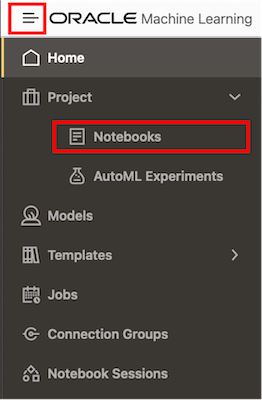
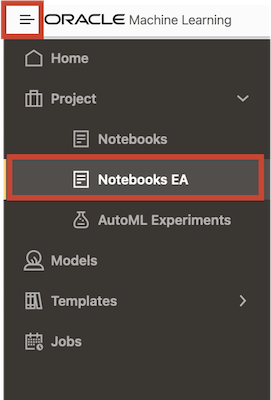
Updates to Speakers

diff --git a/oml4py-adb/embd-python-rest/embd-python-rest.md b/oml4py-adb/embd-python-rest/embd-python-rest.md
@@ -34,37 +34,65 @@ In this lab, we provide a workflow for using the OML4Py REST API for embedded Py
 
 We need to view the markdown in the OML notebook for this lab, and access the OCI Cloud Shell to run the associated cURL commands.
 
-**Access the Lab Notebooks**
+**Access and run the OML notebook for this lab.**
 
-1. Go back to the main notebooks listing by clicking on the "hamburger" menu (the three lines) on the upper left of the screen, and then select **Notebooks**.
+ > **NOTE:** If you have problems with downloading and extracting the ZIP file in Lab 1 Task 2, please 
+ <if type="freetier">[**CLICK HERE** to download the "Lab 7 - Run UDFs with REST API for EPE" noteook DSNB file](<./../notebooks/Lab 7 - Run UDFs with REST API for EPE.dsnb?download=1>)</if><if type="livelabs">[**CLICK HERE** to download the "Lab 7 - Run UDFs with REST API for EPE" noteook DSNB file](<./../notebooks/Lab 7 - Run UDFs with REST API for EPE.dsnb?download=1>)</if><if type="freetier-ocw23">[**CLICK HERE** to download the "Lab Bonus 3 - Run UDFs with REST API for EPE" noteook DSNB file](<./../notebooks/Lab Bonus 3 - Run UDFs with REST API for EPE.dsnb?download=1>)</if>
+   <if type="livelabs-ocw23">[**CLICK HERE** to download the "Lab Bonus 3 - Run UDFs with REST API for EPE" noteook DSNB file](<./../notebooks/Lab Bonus 3 - Run UDFs with REST API for EPE.dsnb?download=1>)</if>. This notebook contains the scripts for this Lab. Save it to your local machine and import it like illustrated in **Lab 1, Task 2, Step 1**.
 
- ![Oracle Machine Learning Notebooks menu](images/go-back-to-notebooks.png "Oracle Machine Learning Notebooks menu ")
-
-2. Click the **Lab 7 notebook name** to view it.
+   Go back to the main Notebooks listing by clicking on the "hamburger" menu (the three lines) on the upper left of the screen, and then select **Notebooks EA**. 
+   
+   ![Go to main Notebooks EA](images/go-back-to-notebooks.png " ")
+   
    <if type="freetier">
-   ![Open Lab 7 notebook ft](images/click-on-lab5-ft.png "Lab 6 notebook") </if>
+   Click the **Lab 7** notebook to view it.
+
+   ![Open Lab 7 notebook ft](images/click-on-la7-ft.png " ") </if>
+   
    <if type="livelabs">
-   ![Open Lab 7 notebook ll](images/click-on-lab5-ll.png "Lab 6 notebook") </if>
+   Click the **Lab 7** notebook to view it.
 
-  OML Notebooks will create a session and make the notebook available for editing.
+   ![Open Lab 7 notebook ll](images/click-on-lab7-ll.png " ") </if>
+   
+   <if type="freetier-ocw23">
+   Click the **Lab Bonus 3** notebook to view it.
 
-  You can optionally click the **Run all paragraphs** (![](images/run-all-paragraphs.png =20x*)) icon, and then click **OK** to confirm to refresh the content with your data, or just scroll down and read the pre-recorded results.  
+   ![Open Lab Bonus 3 notebook ft](images/click-on-labbo3-ft-ocw23.png " ") </if>
+   
+   <if type="livelabs-ocw23">
+   Click the **Lab Bonus 3** notebook to view it.
+   
+   ![Open Lab Bonus 3 notebook ll](images/click-on-labbo3-ll-ocw23.png " ") </if>
 
-  ![Lab 7 Introduction notebook screen capture](images/lab5-main.png " Introduction notebook")
+   OML Notebooks will create a session and make the notebook available for editing.
 
-> **NOTE:** If you had problems downloading and extracting the ZIP file for the labs, please [**CLICK HERE** to download the lab7\_embed\_python\_rest.json notebook file](./../notebooks/lab7_embed_python_rest.json?download=1). Download the notebook file for this lab to your local machine and then import it like illustrated in **Lab 1, Task 2**.
+   You can optionally click the **Run all paragraphs** (![](images/run-all-paragraphs.png =20x*)) icon, and then click **Confirm** to refresh the content with your data, or just scroll down and read the pre-recorded results.  
 
-**Access the OCI Cloud Shell to run cURL commands:**
+   <if type="freetier">
+   ![Lab 7 main screen](images/lab7-main.png " ")
+   </if>
+   <if type="livelabs">
+   ![Lab 7 main screen](images/lab7-main.png " ")
+   </if>
+   <if type="freetier-ocw23">
+   ![Lab Bonus 3 main screen](images/labbo3-main.png " ")
+   </if>
+   <if type="livelabs-ocw23">
+   ![Lab Bonus 3 main screen](images/labbo3-main.png " ")
+   </if>
+
+
+**Access the OCI Cloud Shell to run cURL commands**
 
 To access the OCI Cloud Shell to run the associated cURL commands:
 
-1. To run cURL commands, click the Developer Tools icon on your OCI console and then click Cloud Shell.  
+1. Click the Developer Tools icon on your OCI console and then click Cloud Shell.  
 
-  ![Lab 7 Task 5 cloud shell icon under Developer tools](images/devtools-cloud-shell.png " ")
+  ![Cloud shell icon under Developer tools](images/devtools-cloud-shell.png " ")
 
-2. The Oracle Cloud Shell interface opens at the bottom of your OCI console page. Here, you can run your cURL commands.
+2. The Oracle Cloud Shell interface opens at the bottom of your OCI console page. Here, you can run your cURL commands.  At the right in the green bar that opens up you also have options to maximize, minimize or close the Cloud Shell window.
 
-  ![Lab 7 Task 5 Cloud shell pane](images/cloud-shell-pane.png " ")
+  ![Cloud shell pane](images/cloud-shell-pane.png " ")
 
 ## Task 1: Obtain an Access Token
 
@@ -74,7 +102,20 @@ To access the OCI Cloud Shell to run the associated cURL commands:
 
   ![Obtain the access token](images/1-obtain-access-token.png " ")
 
-2. Follow the flow of the notebook by scrolling to view and run each paragraph of this lab.
+  ![Obtain the access token 2](images/1-obtain-access-token-2.png " ")
+
+  Use the following code in OCI Cloud Shell, replacing `yourusername`, `yourpassword` and `OML Service URL` with the ones for your service.
+
+  ``` 
+  <copy>
+
+    curl -X POST --header 'Content-Type:application/json' \
+    --header 'Accept:application/json' \
+    -d '{"grant_type":"password", "username":"'yourusername'","password":"'yourpassword'"}' 
+    "OML service URL/omlusers/api/oauth2/v1/token"
+  ```
+
+1. Follow the flow of the notebook by scrolling to view and run each paragraph of this lab.
 
   Scroll down to the beginning of Task 1.1.
   ![Export OML Cloud Service URL](images/1-1-export-oml-url-env-variable.png " ")

diff --git a/oml4py-adb/embd-python-sql/embd-python-sql.md b/oml4py-adb/embd-python-sql/embd-python-sql.md
@@ -55,14 +55,14 @@ As the OML user:
    ![Open Lab 5 notebook ll](images/click-on-lab6-ll.png " ") </if>
    
    <if type="freetier-ocw23">
-   Click the **Lab Bonus 1** notebook to view it.
+   Click the **Lab Bonus 2** notebook to view it.
 
-   ![Open Lab 5 notebook ft](images/click-on-labbo2-ft-ocw23.png " ") </if>
+   ![Open Lab Bonus 2 notebook ft](images/click-on-labbo2-ft-ocw23.png " ") </if>
    
    <if type="livelabs-ocw23">
-   Click the **Lab Bonus 1** notebook to view it.
+   Click the **Lab Bonus 2** notebook to view it.
    
-   ![Open Lab 5 notebook ll](images/click-on-labbo2-ll-ocw23.png " ") </if>
+   ![Open Lab Bonus 2 notebook ll](images/click-on-labbo2-ll-ocw23.png " ") </if>
 
    OML Notebooks will create a session and make the notebook available for editing.
 

diff --git a/oml4py-adb/embd-python/embd-python.md b/oml4py-adb/embd-python/embd-python.md
@@ -53,12 +53,12 @@ In this lab, you will:
    <if type="freetier-ocw23">
    Click the **Lab Bonus 1** notebook to view it.
 
-   ![Open Lab 5 notebook ft](images/click-on-labbo1-ft-ocw23.png " ") </if>
+   ![Open Lab Bonus 1 notebook ft](images/click-on-labbo1-ft-ocw23.png " ") </if>
    
    <if type="livelabs-ocw23">
    Click the **Lab Bonus 1** notebook to view it.
    
-   ![Open Lab 5 notebook ll](images/click-on-labbo1-ll-ocw23.png " ") </if>
+   ![Open Lab Bonus 1 notebook ll](images/click-on-labbo1-ll-ocw23.png " ") </if>
 
    OML Notebooks will create a session and make the notebook available for editing.
 
